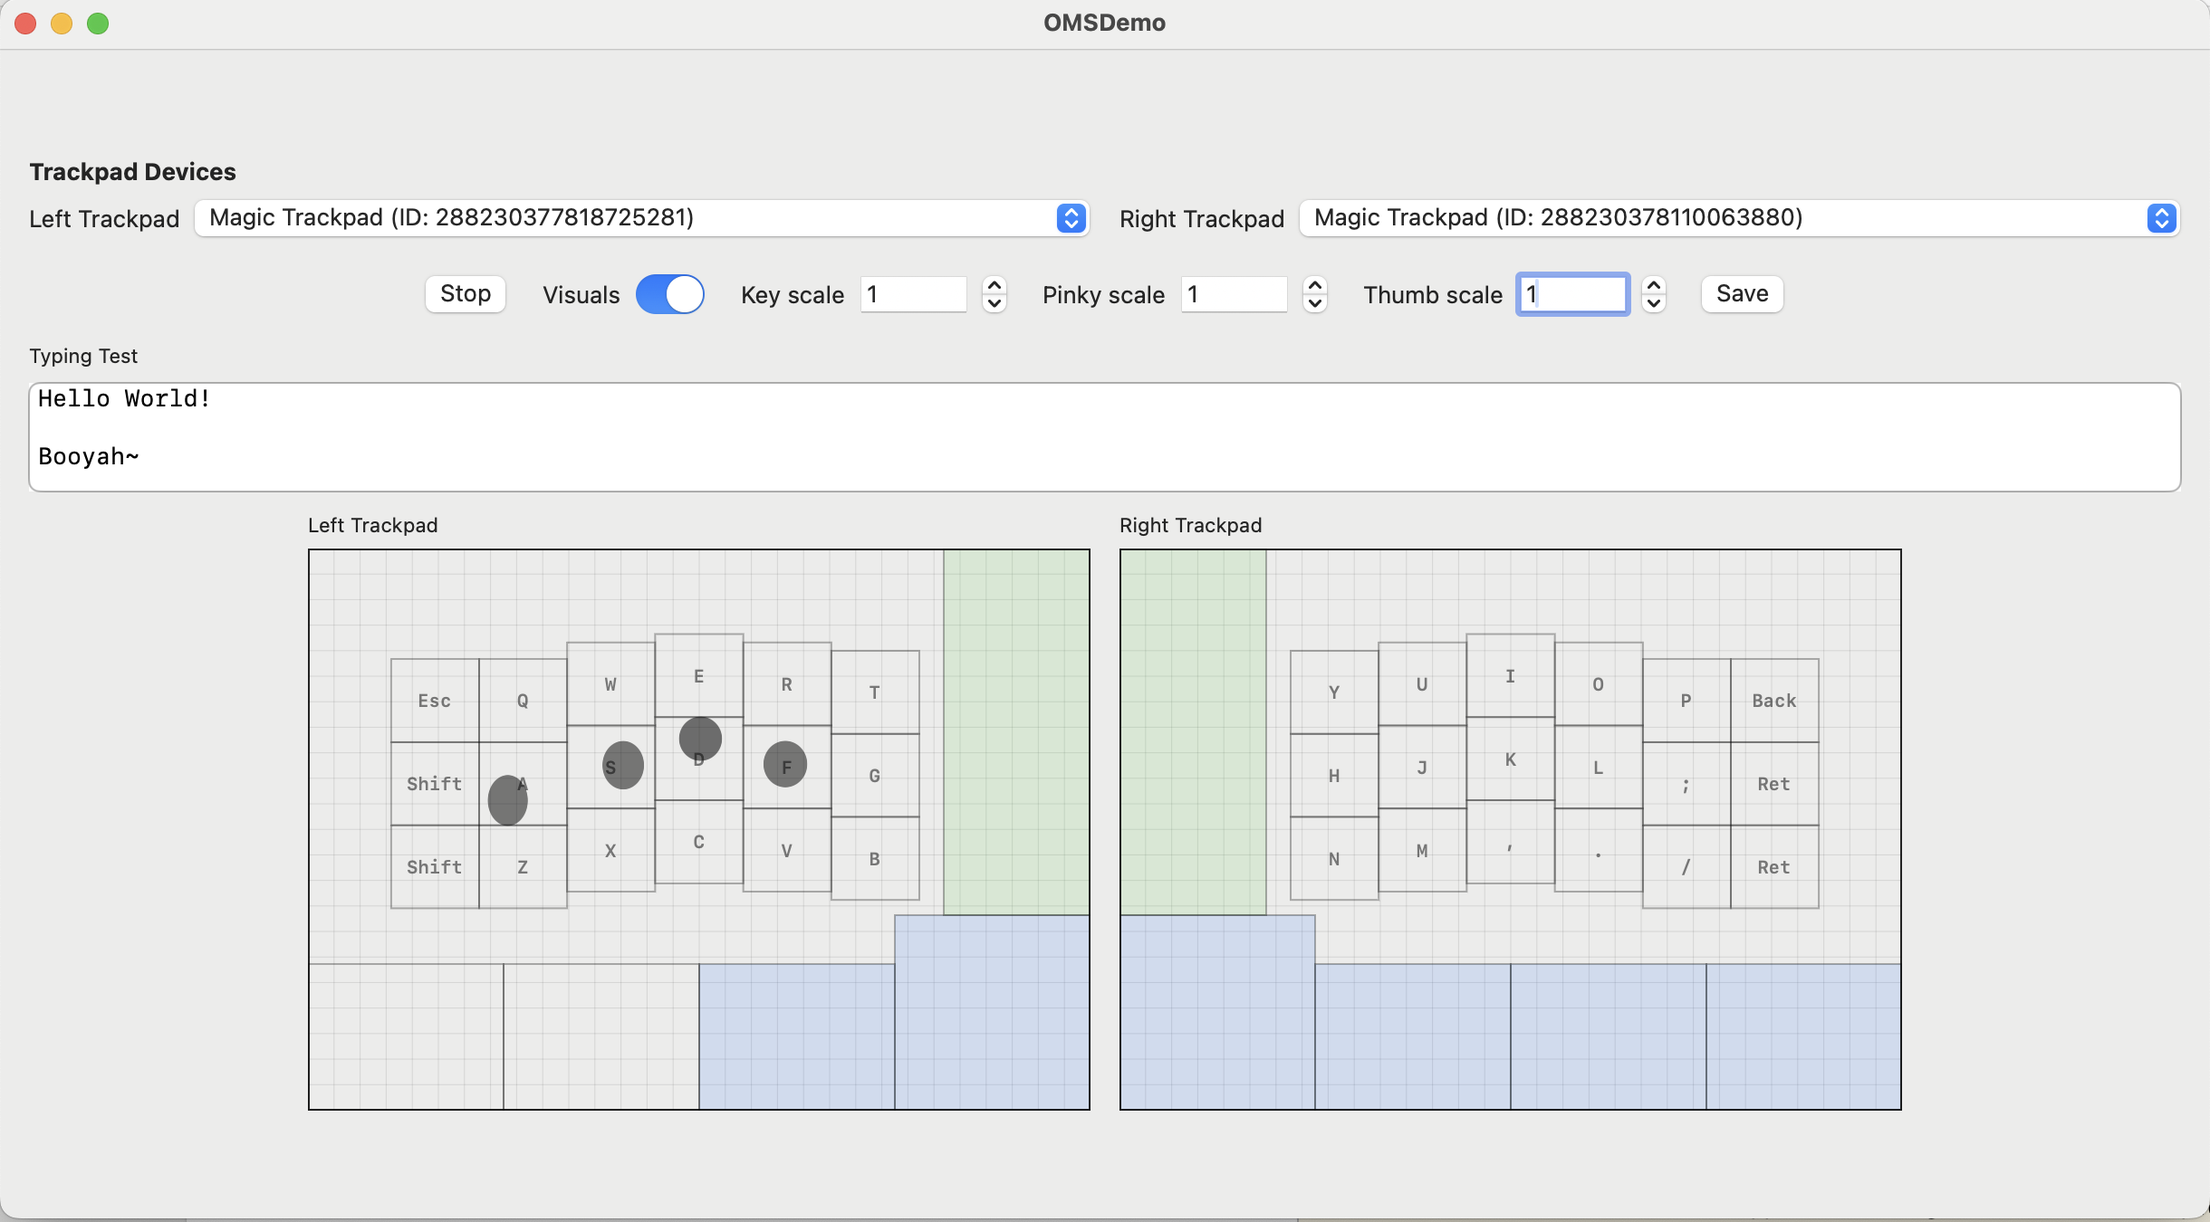
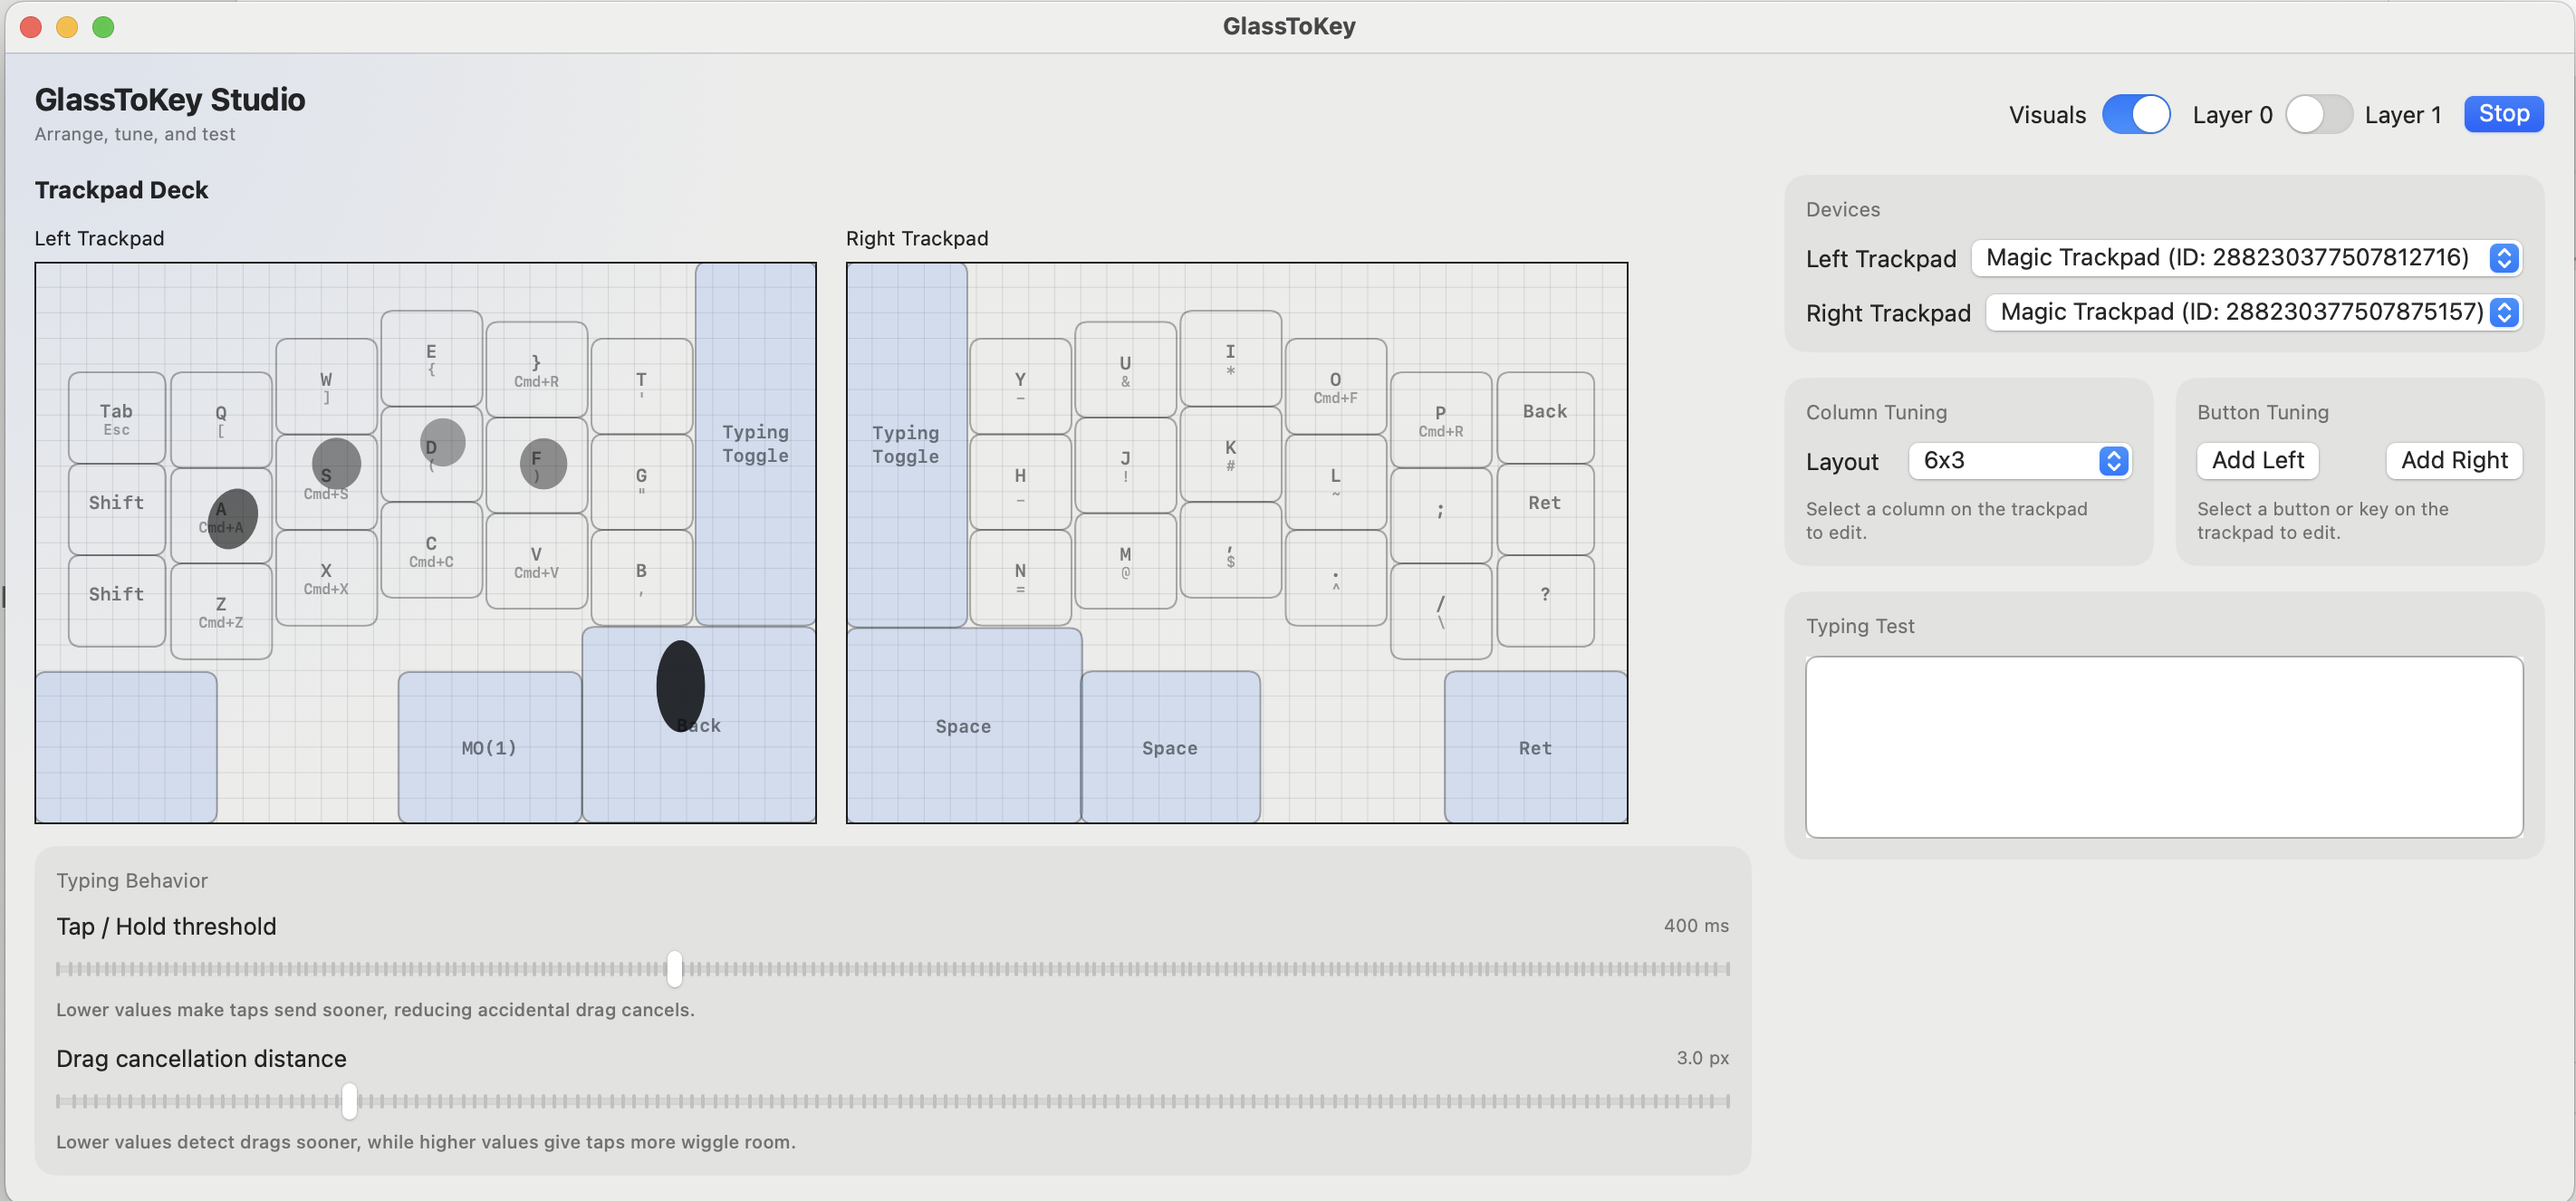
wip

Changed region(s): [[0.0, 0.0, 1.0, 1.0], [0.4672, 0.0, 0.5295, 0.0309]]

diff --git a/GlassToKey/GlassToKey/ContentView.swift b/GlassToKey/GlassToKey/ContentView.swift
@@ -59,6 +59,7 @@ struct ContentView: View {
     private static let columnOffsetPercentRange: ClosedRange<Double> = ColumnLayoutDefaults.offsetPercentRange
     static let rowSpacingPercentRange: ClosedRange<Double> = ColumnLayoutDefaults.rowSpacingPercentRange
     private static let dragCancelDistanceRange: ClosedRange<Double> = 0.5...15.0
+    private static let keyCornerRadius: CGFloat = 6.0
     private static let columnScaleFormatter: NumberFormatter = {
         let formatter = NumberFormatter()
         formatter.numberStyle = .decimal
@@ -575,7 +576,7 @@ struct ContentView: View {
                 endRadius: 420
             )
         )
-        .frame(minWidth: trackpadSize.width * 2 + 480, minHeight: trackpadSize.height + 200)
+        .frame(minWidth: trackpadSize.width * 2 + 520, minHeight: trackpadSize.height + 240)
         .onAppear {
             applySavedSettings()
             displayTouchData = viewModel.snapshotTouchData()
@@ -1132,13 +1133,13 @@ struct ContentView: View {
                 let rect = button.rect.rect(in: trackpadSize)
                 let isSelected = button.id == selectedButtonID.wrappedValue
 
-                let baseButton = RoundedRectangle(cornerRadius: 4)
+                let baseButton = RoundedRectangle(cornerRadius: Self.keyCornerRadius)
                     .stroke(
                         isSelected ? Color.accentColor.opacity(0.9) : Color.clear,
                         lineWidth: 1.5
                     )
                     .background(
-                        RoundedRectangle(cornerRadius: 4)
+                        RoundedRectangle(cornerRadius: Self.keyCornerRadius)
                             .fill(Color.accentColor.opacity(isSelected ? 0.08 : 0.02))
                     )
                     .frame(width: rect.width, height: rect.height)
@@ -1358,7 +1359,8 @@ struct ContentView: View {
            keyRects.first?.indices.contains(selectedColumn) == true {
             for row in keyRects {
                 let rect = row[selectedColumn]
-                context.fill(Path(rect), with: .color(Color.accentColor.opacity(0.12)))
+                let keyPath = Path(roundedRect: rect, cornerRadius: Self.keyCornerRadius)
+                context.fill(keyPath, with: .color(Color.accentColor.opacity(0.12)))
             }
         }
 
@@ -1366,12 +1368,14 @@ struct ContentView: View {
            keyRects.indices.contains(key.row),
            keyRects[key.row].indices.contains(key.column) {
             let rect = keyRects[key.row][key.column]
-            context.fill(Path(rect), with: .color(Color.accentColor.opacity(0.18)))
+            let keyPath = Path(roundedRect: rect, cornerRadius: Self.keyCornerRadius)
+            context.fill(keyPath, with: .color(Color.accentColor.opacity(0.18)))
         }
 
         for row in keyRects {
             for rect in row {
-                context.stroke(Path(rect), with: .color(.secondary.opacity(0.6)), lineWidth: 1)
+                let keyPath = Path(roundedRect: rect, cornerRadius: Self.keyCornerRadius)
+                context.stroke(keyPath, with: .color(.secondary.opacity(0.6)), lineWidth: 1)
             }
         }
 
@@ -1379,7 +1383,8 @@ struct ContentView: View {
            keyRects.first?.indices.contains(selectedColumn) == true {
             for row in keyRects {
                 let rect = row[selectedColumn]
-                context.stroke(Path(rect), with: .color(Color.accentColor.opacity(0.8)), lineWidth: 1.5)
+                let keyPath = Path(roundedRect: rect, cornerRadius: Self.keyCornerRadius)
+                context.stroke(keyPath, with: .color(Color.accentColor.opacity(0.8)), lineWidth: 1.5)
             }
         }
 
@@ -1387,7 +1392,8 @@ struct ContentView: View {
            keyRects.indices.contains(key.row),
            keyRects[key.row].indices.contains(key.column) {
             let rect = keyRects[key.row][key.column]
-            context.stroke(Path(rect), with: .color(Color.accentColor.opacity(0.9)), lineWidth: 1.5)
+            let keyPath = Path(roundedRect: rect, cornerRadius: Self.keyCornerRadius)
+            context.stroke(keyPath, with: .color(Color.accentColor.opacity(0.9)), lineWidth: 1.5)
         }
     }
 
@@ -1400,8 +1406,9 @@ struct ContentView: View {
         let holdStyle = Font.system(size: 8, weight: .semibold, design: .monospaced)
         for button in buttons {
             let rect = button.rect.rect(in: trackpadSize)
-            context.fill(Path(rect), with: .color(Color.blue.opacity(0.12)))
-            context.stroke(Path(rect), with: .color(.secondary.opacity(0.6)), lineWidth: 1)
+            let buttonPath = Path(roundedRect: rect, cornerRadius: Self.keyCornerRadius)
+            context.fill(buttonPath, with: .color(Color.blue.opacity(0.12)))
+            context.stroke(buttonPath, with: .color(.secondary.opacity(0.6)), lineWidth: 1)
             let center = CGPoint(x: rect.midX, y: rect.midY)
             if button.id != selectedButtonID {
                 let primaryText = Text(button.action.displayText)

diff --git a/AGENTS.md b/AGENTS.md
@@ -41,13 +41,10 @@
 ## Important notes for next instance of Codex
 - No notes left
 
-## TODO
-- Can we round the corners to give the visuals a softer look? Will it affect performance?
-- Need to make sure 2 finger taps do not trigger key presses.
-- Make default window a little bigger to fit everything
+## TODO 
+- Need to make sure 2 finger taps do not trigger key presses../
 - Issue with starting 2-finger drag when starting from SPACE area
-###
-- Have GPT show x,y instead of % or at least have it explain why it did that.. Each % is different even if they are in the same place!
+###.
 - "Auto" set column x,y based on finger splay "4 finger touch"
 - Maybe I can turn off single-finger tap at the Mac OS level but implement single finger tap-to-click if under a minimum ms typing term?
 - Add functionality to use trackpad as a scale! Lovely repo @ https://github.com/KrishKrosh/TrackWeight
